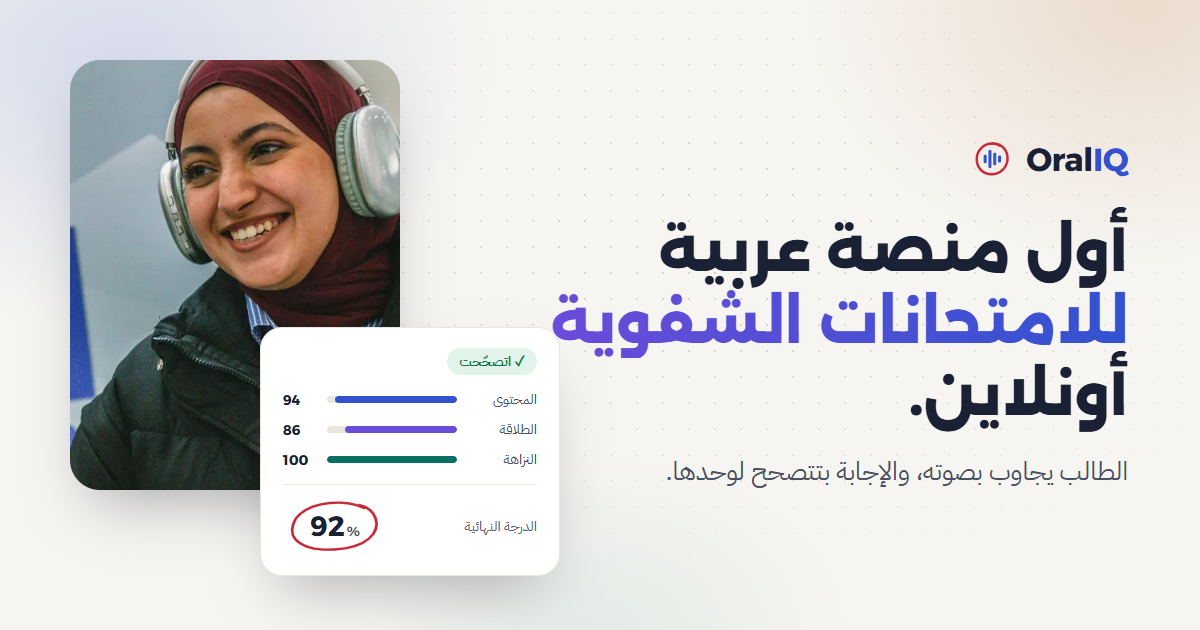
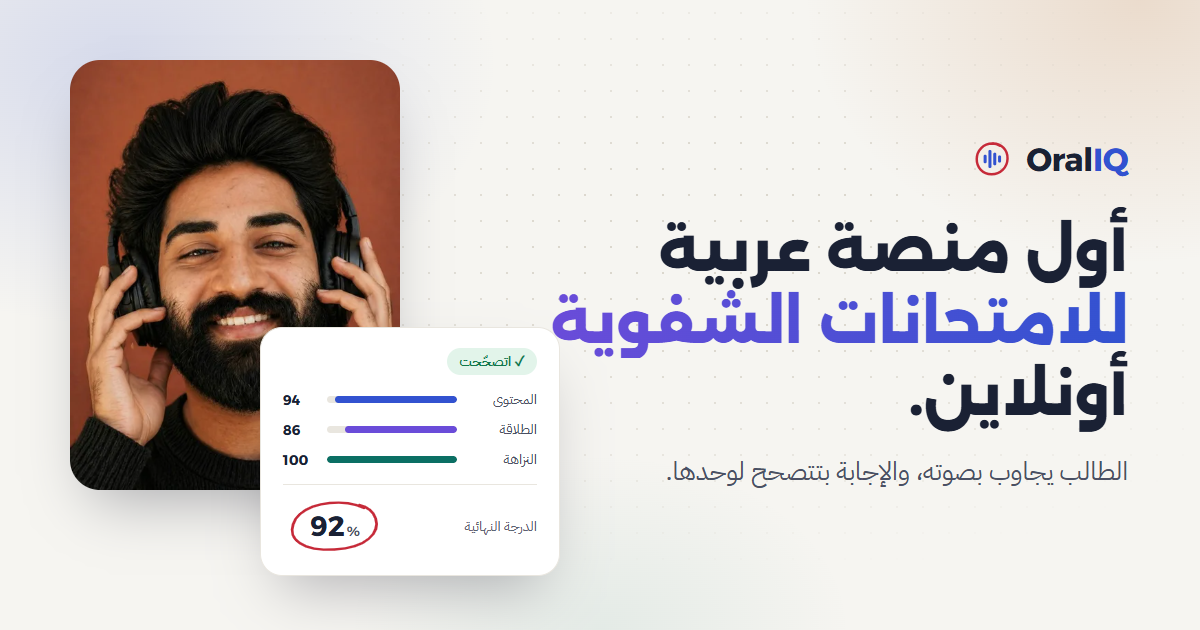
Hero: new student photo and Kufam display face; clients become 'عملاؤنا'
- Hero cut-out is now a smiling student in headphones (BiRefNet cut-out,
  no backdrop fringe); note anchors moved to his headphones and face;
  sized so the whole face clears the bottom tabs
- Kufam for the hero's giant words and headline only (closest to the
  reference's long horizontal Kufi); English words run smaller
- Clients section titled just 'عملاؤنا' with logos in a moving band
  (pauses on hover, honours reduced motion); still hidden in production
  until real clients are added
- Share image (og.png) uses the new photo; old cut-out removed; credits
  and DESIGN.md updated

Changed region(s): [[0.0308, 0.0905, 0.3392, 0.7841]]

diff --git a/frontend/src/components/landing/HeroStage.tsx b/frontend/src/components/landing/HeroStage.tsx
@@ -13,8 +13,8 @@ type Line = { points: string; x: number; y: number };
  * Measured on the RTL (unmirrored) photo; mirrored for LTR.
  */
 const ANCHORS = {
-    voice: { x: 27.5, y: 41 },   // the headphone cup on the image's left
-    face: { x: 52, y: 44 },      // her cheek
+    voice: { x: 15.5, y: 45 },   // the headphone cup on the image's left
+    face: { x: 47, y: 41 },      // his face, between the eyes and the smile
 };
 
 /**
@@ -65,6 +65,8 @@ export function HeroStage({ startHref }: { startHref: string }) {
     const anchor = (a: { x: number; y: number }) => ({ left: `${rtl ? a.x : 100 - a.x}%`, top: `${a.y}%` });
 
     const devices = [Smartphone, Laptop, Tablet];
+    // Kufam's Latin is wide; English words run smaller so they clear the photo
+    const wordSize = rtl ? "text-[clamp(5rem,10.2vw,9.75rem)]" : "text-[clamp(4rem,7.6vw,7.25rem)]";
 
     return (
         <div className="px-3 pt-3 sm:px-5 sm:pt-4">
@@ -86,7 +88,7 @@ export function HeroStage({ startHref }: { startHref: string }) {
                     initial={{ opacity: 0, y: 30 }}
                     animate={{ opacity: 1, y: 0 }}
                     transition={{ duration: 1, ease: EASE, delay: 0.15 }}
-                    className="pointer-events-none absolute start-[4%] top-[9%] z-0 hidden font-display text-[clamp(5rem,10.2vw,9.75rem)] font-extrabold leading-none tracking-tight drop-shadow-[0_12px_30px_rgba(30,60,130,0.18)] lg:block"
+                    className={cn("pointer-events-none absolute start-[4%] top-[9%] z-0 hidden font-hero font-extrabold leading-none tracking-tight drop-shadow-[0_12px_30px_rgba(30,60,130,0.18)] lg:block", wordSize)}
                     style={{ color: "var(--hero-word)" }}
                 >
                     {l("إجابتك", "Answer")}
@@ -96,14 +98,14 @@ export function HeroStage({ startHref }: { startHref: string }) {
                     initial={{ opacity: 0, y: 30 }}
                     animate={{ opacity: 1, y: 0 }}
                     transition={{ duration: 1, ease: EASE, delay: 0.3 }}
-                    className="pointer-events-none absolute bottom-[calc(13rem+5%)] end-[3%] z-[12] hidden font-display text-[clamp(5rem,10.2vw,9.75rem)] font-extrabold leading-none tracking-tight drop-shadow-[0_12px_30px_rgba(30,60,130,0.18)] lg:block"
+                    className={cn("pointer-events-none absolute bottom-[calc(13rem+5%)] end-[3%] z-[12] hidden font-hero font-extrabold leading-none tracking-tight drop-shadow-[0_12px_30px_rgba(30,60,130,0.18)] lg:block", wordSize)}
                     style={{ color: "var(--hero-word)" }}
                 >
                     {l("بصوتك.", "aloud.")}
                 </motion.p>
 
                 {/* Giant words (phones) */}
-                <p aria-hidden className="relative z-0 px-5 pt-9 text-center font-display text-[clamp(3.4rem,17vw,5rem)] font-extrabold leading-[1.18] tracking-tight lg:hidden" style={{ color: "var(--hero-word)" }}>
+                <p aria-hidden className="relative z-0 px-5 pt-9 text-center font-hero text-[clamp(3.4rem,17vw,5rem)] font-extrabold leading-[1.18] tracking-tight lg:hidden" style={{ color: "var(--hero-word)" }}>
                     {l("إجابتك", "Answer")}<br />{l("بصوتك.", "aloud.")}
                 </p>
 
@@ -113,14 +115,14 @@ export function HeroStage({ startHref }: { startHref: string }) {
                     animate={{ opacity: 1, y: 0 }}
                     transition={{ duration: 1.1, ease: EASE, delay: 0.2 }}
                     onAnimationComplete={measure}
-                    className="relative z-10 mx-auto -mt-2 w-[88%] max-w-[440px] lg:absolute lg:bottom-0 lg:left-1/2 lg:mt-0 lg:h-[88%] lg:w-auto lg:max-w-none lg:-translate-x-1/2"
+                    className="relative z-10 mx-auto -mt-2 w-[88%] max-w-[440px] lg:absolute lg:bottom-[9rem] lg:left-1/2 lg:mt-0 lg:h-[78%] lg:w-auto lg:max-w-none lg:-translate-x-1/2"
                 >
                     <img
-                        src="/photos/hero-cutout.webp"
-                        srcSet="/photos/hero-cutout-640.webp 640w, /photos/hero-cutout.webp 1100w"
+                        src="/photos/hero-cutout-m.webp"
+                        srcSet="/photos/hero-cutout-m-640.webp 640w, /photos/hero-cutout-m.webp 1100w"
                         sizes="(min-width: 1024px) 720px, 88vw"
-                        alt={l("طالبة مبتسمة لابسة سماعات بتجاوب على امتحان شفوي", "A smiling student wearing headphones, answering an oral exam")}
-                        width={1100} height={1121}
+                        alt={l("طالب مبتسم لابس سماعات بيجاوب على امتحان شفوي", "A smiling student wearing headphones, answering an oral exam")}
+                        width={1100} height={1341}
                         fetchPriority="high"
                         onLoad={measure}
                         className={cn("block h-auto w-full lg:h-full lg:w-auto", !rtl && "-scale-x-100")}
@@ -195,7 +197,7 @@ export function HeroStage({ startHref }: { startHref: string }) {
 
                     {/* Center: the promise */}
                     <div className="oiq-notch-c relative flex flex-col items-center justify-center rounded-[22px] bg-navy px-6 pb-7 pt-12 text-center text-white md:order-1 md:col-span-2 lg:order-none lg:col-span-1 lg:-mx-8 lg:rounded-none lg:px-20 lg:pb-6 lg:pt-10">
-                        <h1 className="font-display text-[1.65rem] font-bold leading-snug text-white sm:text-[1.9rem]">
+                        <h1 className="font-hero text-[1.65rem] font-bold leading-snug text-white sm:text-[1.9rem]">
                             {l("أول منصة عربية للامتحانات الشفوية أونلاين.", "The first Arabic platform for online oral exams.")}
                         </h1>
                         <p className="mt-2 max-w-md text-[0.9375rem] leading-relaxed text-white/65">

diff --git a/frontend/src/components/landing/ClientsStrip.tsx b/frontend/src/components/landing/ClientsStrip.tsx
@@ -1,18 +1,11 @@
 import { useI18n } from "../../i18n";
-import { CLIENTS, type ClientKind } from "../../content/clients";
+import { CLIENTS, type Client } from "../../content/clients";
 
-const KIND: Record<ClientKind, { ar: string; en: string }> = {
-    university: { ar: "جامعة", en: "University" },
-    school: { ar: "مدرسة", en: "School" },
-    center: { ar: "مركز تدريب", en: "Training centre" },
-    teacher: { ar: "مدرس", en: "Teacher" },
-};
-
-/** Placeholder slots, development only: show the layout without inventing names. */
-const SLOTS: ClientKind[] = ["university", "school", "center", "university", "teacher", "school"];
+/** Placeholder count for the development preview: shows the layout without inventing names. */
+const SLOTS = 8;
 
 /**
- * "Who uses OralIQ": real institutions from content/clients.ts.
+ * "Our clients": real names and logos from content/clients.ts, moving in one band.
  * Renders nothing in production until the list has entries.
  */
 export function ClientsStrip() {
@@ -20,39 +13,44 @@ export function ClientsStrip() {
     const preview = CLIENTS.length === 0;
     if (preview && !import.meta.env.DEV) return null;
 
+    const item = (c: Client) => {
+        const label = l(c.name.ar, c.name.en);
+        const body = c.logo
+            ? <img src={c.logo} alt={label} loading="lazy" className="max-h-11 max-w-40 object-contain opacity-75 grayscale transition hover:opacity-100 hover:grayscale-0" />
+            : <span className="whitespace-nowrap font-display text-lg font-semibold text-ink-2">{label}</span>;
+        return c.href ? <a href={c.href} target="_blank" rel="noopener noreferrer">{body}</a> : body;
+    };
+
+    // The band repeats itself once so the loop is seamless; the copy is hidden from screen readers.
+    const row = (hidden: boolean) => (
+        <ul aria-hidden={hidden || undefined} className="flex shrink-0 items-center gap-14 pe-14">
+            {preview
+                ? Array.from({ length: SLOTS }).map((_, i) => (
+                    <li key={i} className="flex h-16 w-40 items-center justify-center rounded-xl border border-dashed border-rule-strong text-sm font-semibold text-ink-3">
+                        {l("شعار العميل", "Client logo")}
+                    </li>
+                ))
+                : CLIENTS.map((c) => <li key={c.name.en} className="flex h-16 items-center">{item(c)}</li>)}
+        </ul>
+    );
+
     return (
-        <section aria-labelledby="clients-title" className="mx-auto max-w-6xl px-4 py-20 sm:px-6">
-            <h2 id="clients-title" className="text-center text-xl font-semibold text-ink-2">
-                {l("جامعات ومدارس ومراكز بتمتحن طلابها شفوي مع OralIQ", "Universities, schools and centres running oral exams with OralIQ")}
-            </h2>
+        <section aria-labelledby="clients-title" className="py-20">
+            <h2 id="clients-title" className="text-center text-3xl font-bold tracking-tight sm:text-[2.6rem] sm:leading-tight">{l("عملاؤنا", "Our clients")}</h2>
 
             {preview && (
-                <p className="mx-auto mt-3 max-w-md text-center text-sm text-warn">
-                    {l("معاينة على جهاز التطوير بس: ضيف أسامي العملاء في src/content/clients.ts والقسم هيظهر على الموقع.",
+                <p className="mx-auto mt-3 max-w-md px-4 text-center text-sm text-warn">
+                    {l("معاينة على جهاز التطوير بس: ضيف العملاء في src/content/clients.ts والقسم هيظهر على الموقع.",
                         "Development preview only: add clients to src/content/clients.ts and the section appears on the live site.")}
                 </p>
             )}
 
-            <ul className="mt-10 grid grid-cols-2 gap-px overflow-hidden rounded-[20px] border border-rule bg-rule sm:grid-cols-3 lg:grid-cols-6">
-                {preview
-                    ? SLOTS.map((k, i) => (
-                        <li key={i} className="flex h-28 flex-col items-center justify-center gap-1 bg-sheet text-ink-3">
-                            <span className="font-display text-sm font-semibold">{l("شعار العميل", "Client logo")}</span>
-                            <span className="text-xs">{l(KIND[k].ar, KIND[k].en)}</span>
-                        </li>
-                    ))
-                    : CLIENTS.map((c) => {
-                        const label = l(c.name.ar, c.name.en);
-                        const body = c.logo
-                            ? <img src={c.logo} alt={label} loading="lazy" className="max-h-12 max-w-[70%] object-contain opacity-80 grayscale transition hover:opacity-100 hover:grayscale-0" />
-                            : <span className="px-3 text-center font-display font-semibold text-ink-2">{label}</span>;
-                        return (
-                            <li key={c.name.en} className="flex h-28 items-center justify-center bg-sheet">
-                                {c.href ? <a href={c.href} target="_blank" rel="noopener noreferrer" className="flex size-full items-center justify-center">{body}</a> : body}
-                            </li>
-                        );
-                    })}
-            </ul>
+            <div className="group relative mt-10 flex overflow-hidden [mask-image:linear-gradient(90deg,transparent,black_12%,black_88%,transparent)]">
+                <div className="flex w-max motion-safe:animate-[oiq-marquee_40s_linear_infinite] group-hover:[animation-play-state:paused]">
+                    {row(false)}
+                    {row(true)}
+                </div>
+            </div>
         </section>
     );
 }

diff --git a/frontend/src/content/clients.ts b/frontend/src/content/clients.ts
@@ -1,20 +1,18 @@
 /**
  * Institutions that use OralIQ, shown on the home page.
  *
- * Add real clients only. Each entry needs a name in both languages; a logo is optional
+ * Add real clients only. Each entry needs a name in both languages; a logo is recommended
  * (put the file in /public/clients/ and reference it as "/clients/<file>").
  *
- *   { name: { ar: "جامعة المنصورة", en: "Mansoura University" }, kind: "university", logo: "/clients/mansoura.svg" },
+ *   { name: { ar: "اسم العميل", en: "Client name" }, logo: "/clients/client.svg", href: "https://example.com" },
  *
  * While this list is empty, the home page shows labelled placeholder slots on the
  * development server only, and hides the section in production, so a visitor never
  * sees invented clients.
  */
-export type ClientKind = "university" | "school" | "center" | "teacher";
 
 export interface Client {
     name: { ar: string; en: string };
-    kind: ClientKind;
     logo?: string;
     /** The client's website, if they agreed to be linked. */
     href?: string;

diff --git a/frontend/index.html b/frontend/index.html
@@ -24,7 +24,7 @@
   <link rel="preconnect" href="https://fonts.googleapis.com" />
   <link rel="preconnect" href="https://fonts.gstatic.com" crossorigin />
   <link
-    href="https://fonts.googleapis.com/css2?family=Alexandria:wght@400;500;600;700;800&family=IBM+Plex+Sans+Arabic:wght@400;500;600;700&display=swap"
+    href="https://fonts.googleapis.com/css2?family=Alexandria:wght@400;500;600;700;800&family=IBM+Plex+Sans+Arabic:wght@400;500;600;700&family=Kufam:wght@700;800&display=swap"
     rel="stylesheet" />
   <script>
     // Apply saved language + theme before first paint to avoid a flash.

diff --git a/frontend/src/index.css b/frontend/src/index.css
@@ -219,6 +219,8 @@
 
   --font-sans: "IBM Plex Sans Arabic", system-ui, sans-serif;
   --font-display: "Alexandria", "IBM Plex Sans Arabic", system-ui, sans-serif;
+  /* Home hero only: geometric Kufi with long horizontal strokes, for the giant words and the headline */
+  --font-hero: "Kufam", "Alexandria", system-ui, sans-serif;
 
   --radius-control: 12px;
   --radius-panel: 20px;

diff --git a/frontend/DESIGN.md b/frontend/DESIGN.md
@@ -59,7 +59,8 @@ Dark mode redefines every token; components only reference tokens.
 
 ## Typography
 
-- **Alexandria** for headings and numbers (display), **IBM Plex Sans Arabic** for body. Both handle Arabic and Latin; no third face.
+- **Alexandria** for headings and numbers (display), **IBM Plex Sans Arabic** for body. Both handle Arabic and Latin.
+- **Kufam** (`font-hero`) only in the home hero: the giant words and the hero headline. Its long horizontal Kufi strokes give the one loud moment its own voice. Nowhere else.
 - Headings: 30px mobile, about 42px desktop for section titles. The home hero's giant words are the one loud moment.
 - Numbers that line up (scores, tables) use `.tabular`.
 - Latin strings inside Arabic (emails, IDs) use `.ltr`.
@@ -69,7 +70,7 @@ Dark mode redefines every token; components only reference tokens.
 - Arabic first: use logical properties (`ms-`, `pe-`, `start-`, `end-`) everywhere; mirror photos for LTR only when a composition depends on direction.
 - Widths follow the section's role: the hero is a full-width stage (max 1400px); reading sections (steps, comparison) sit at `max-w-6xl`; the FAQ is narrow (`max-w-3xl`); product shots and feature grids use `max-w-7xl`.
 - Home page order: hero, how it works, the answer sheet, the grading formula, features, the old way against OralIQ with who it is for, clients, the two ways to work with us (platform or inside the client's site), FAQ, contact, closing call to action, footer.
-- Clients come only from `src/content/clients.ts` and must be real. With an empty list the section is a development-only preview and is hidden in production; never ship invented names or logos. Add sections only when they answer a question a buyer actually has.
+- The clients section is titled "عملاؤنا" only (no claims about what kind of institutions) and its logos move in one band. Clients come only from `src/content/clients.ts` and must be real. With an empty list the section is a development-only preview and is hidden in production; never ship invented names or logos. Add sections only when they answer a question a buyer actually has.
 
 ## Elevation & Depth
 
@@ -106,5 +107,5 @@ Shared primitives live in `src/components/ui/` (button, input, panel, feedback, 
 - Do reuse the tokens, nav, footer and primitives above on every page, unchanged.
 - Do add a token to `index.css` and to this file before a page needs a new colour or size.
 - Do keep student-facing language encouraging and specific ("رجّع عينك للشاشة", not "نظرت لليسار").
-- Don't change: Alexandria + IBM Plex Sans Arabic, the pen-blue / red-pen pair, the home hero composition (the owner's reference).
+- Don't change: Alexandria + IBM Plex Sans Arabic, Kufam in the hero, the pen-blue / red-pen pair, the home hero composition (the owner's reference).
 - Don't use: purple-to-blue gradients or gradient headline text; one accented word in a headline (SD5); eyebrow labels with hairlines above every heading (SD4); middle-dot meta strings (SD4d); decorative 01 / 02 / 03 numbering outside real sequences (SD6); fake browser chrome around screenshots (SD7); icons in tinted rounded squares as the default feature treatment (K6); mouse-following spotlights and 3D tilt cards (K10); count-up animations outside live dashboard figures (M5); cream with terracotta or near-black with acid green as an "escape" palette (SD1, SD2).

diff --git a/frontend/public/photos/CREDITS.md b/frontend/public/photos/CREDITS.md
@@ -13,7 +13,7 @@ Credited here anyway, as good practice.
 | student-relaxed.webp | Litoon Dev | https://unsplash.com/photos/erQYGPZxjQg |
 | graduate.webp | Sahil Prajapati | https://unsplash.com/photos/7TUX4d3MeY0 |
 | chip-smile.webp (also the face in screens/exam-mobile.webp) | Mufid Majnun | https://unsplash.com/photos/J6kMThsc41M |
-| hero-cutout.webp (also in og.png) | Malak | https://unsplash.com/photos/eT5F_J3WlxY |
+| hero-cutout-m.webp (also in og.png) | Vikram Sen | https://unsplash.com/photos/3ZSHDk1WNMg |
 | lecturer-desk.webp, chip-lecturer-desk.webp | Fotos | https://unsplash.com/photos/O-1eWnY5_xk |
 | student-waving.webp | Windows | https://unsplash.com/photos/6G6akT8biLg |
 
